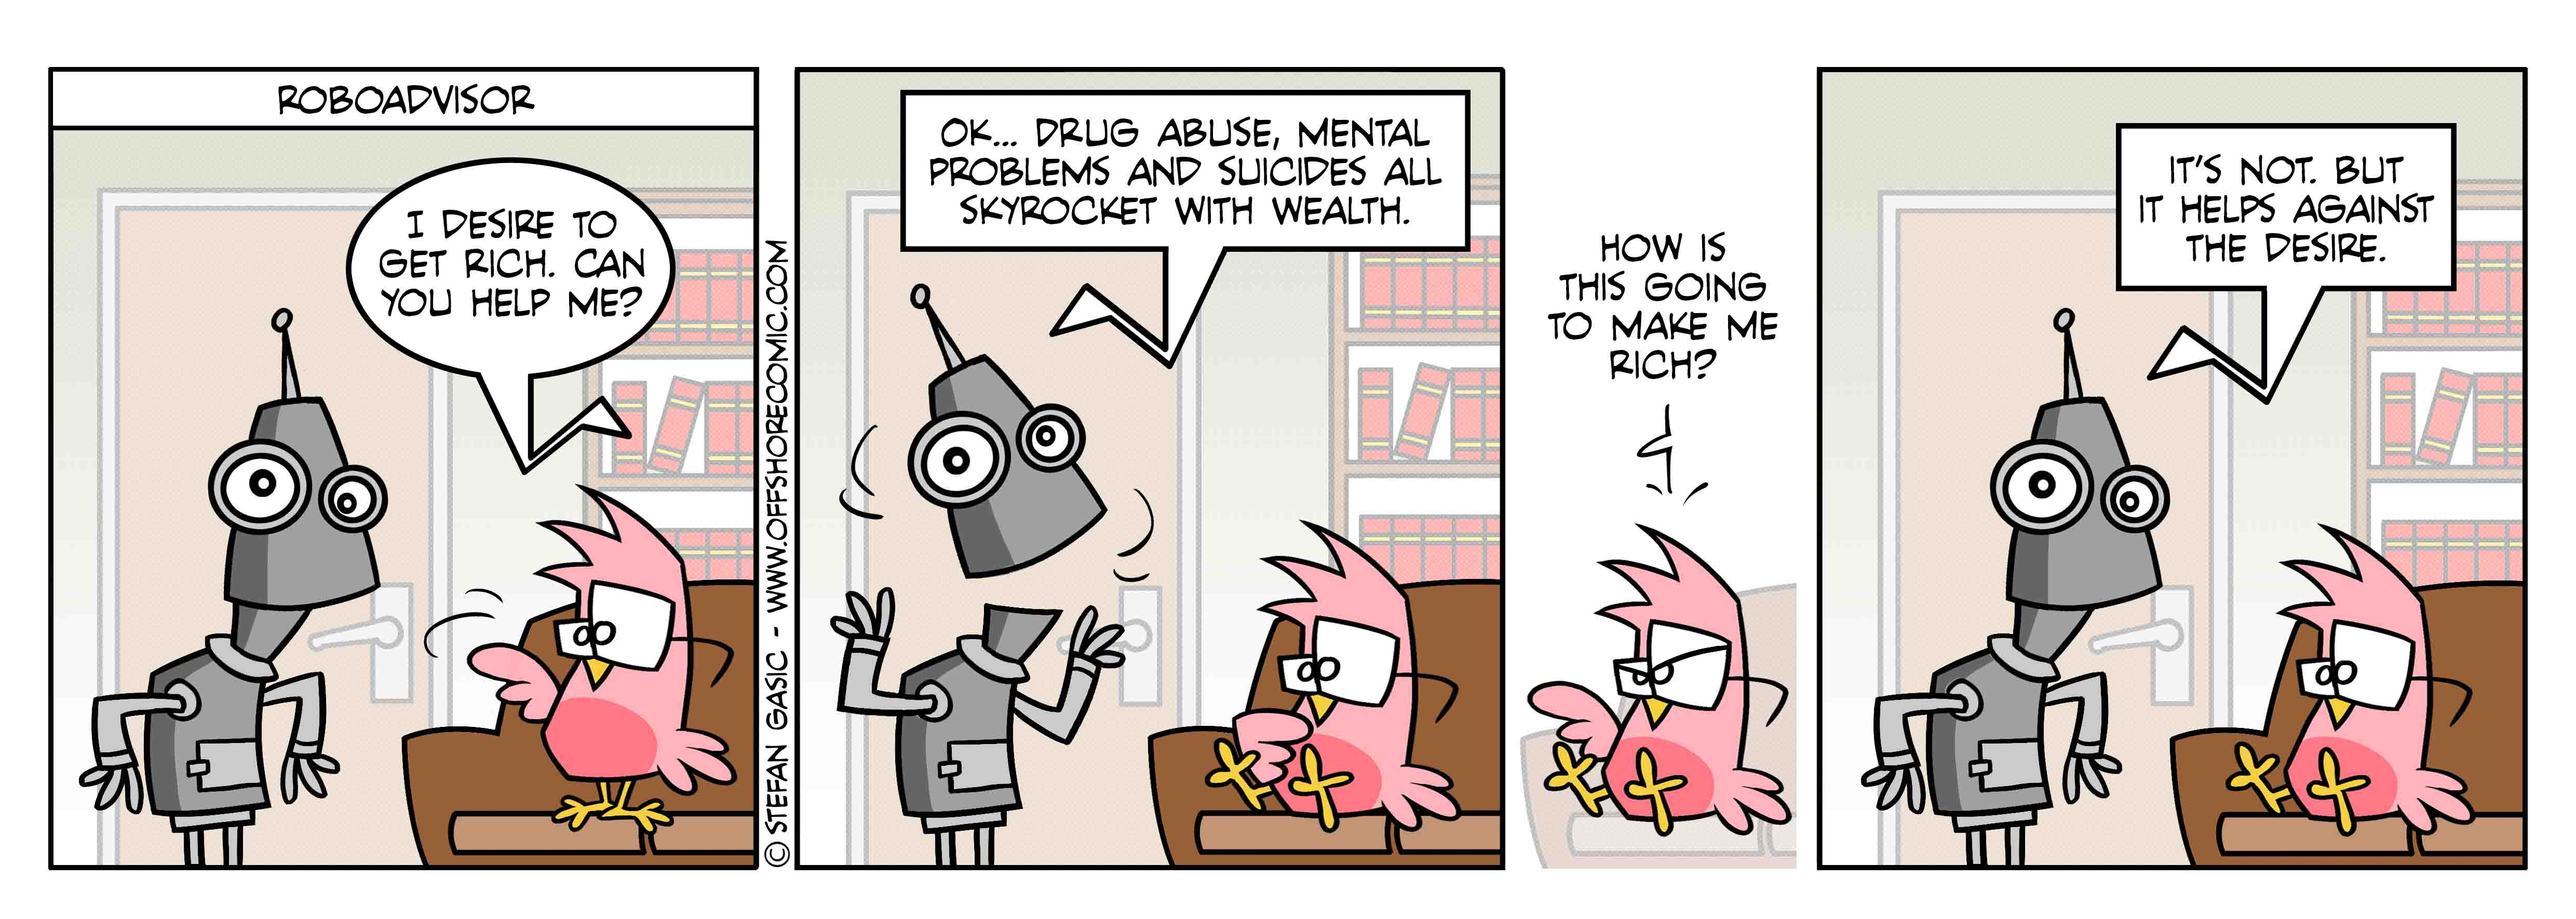
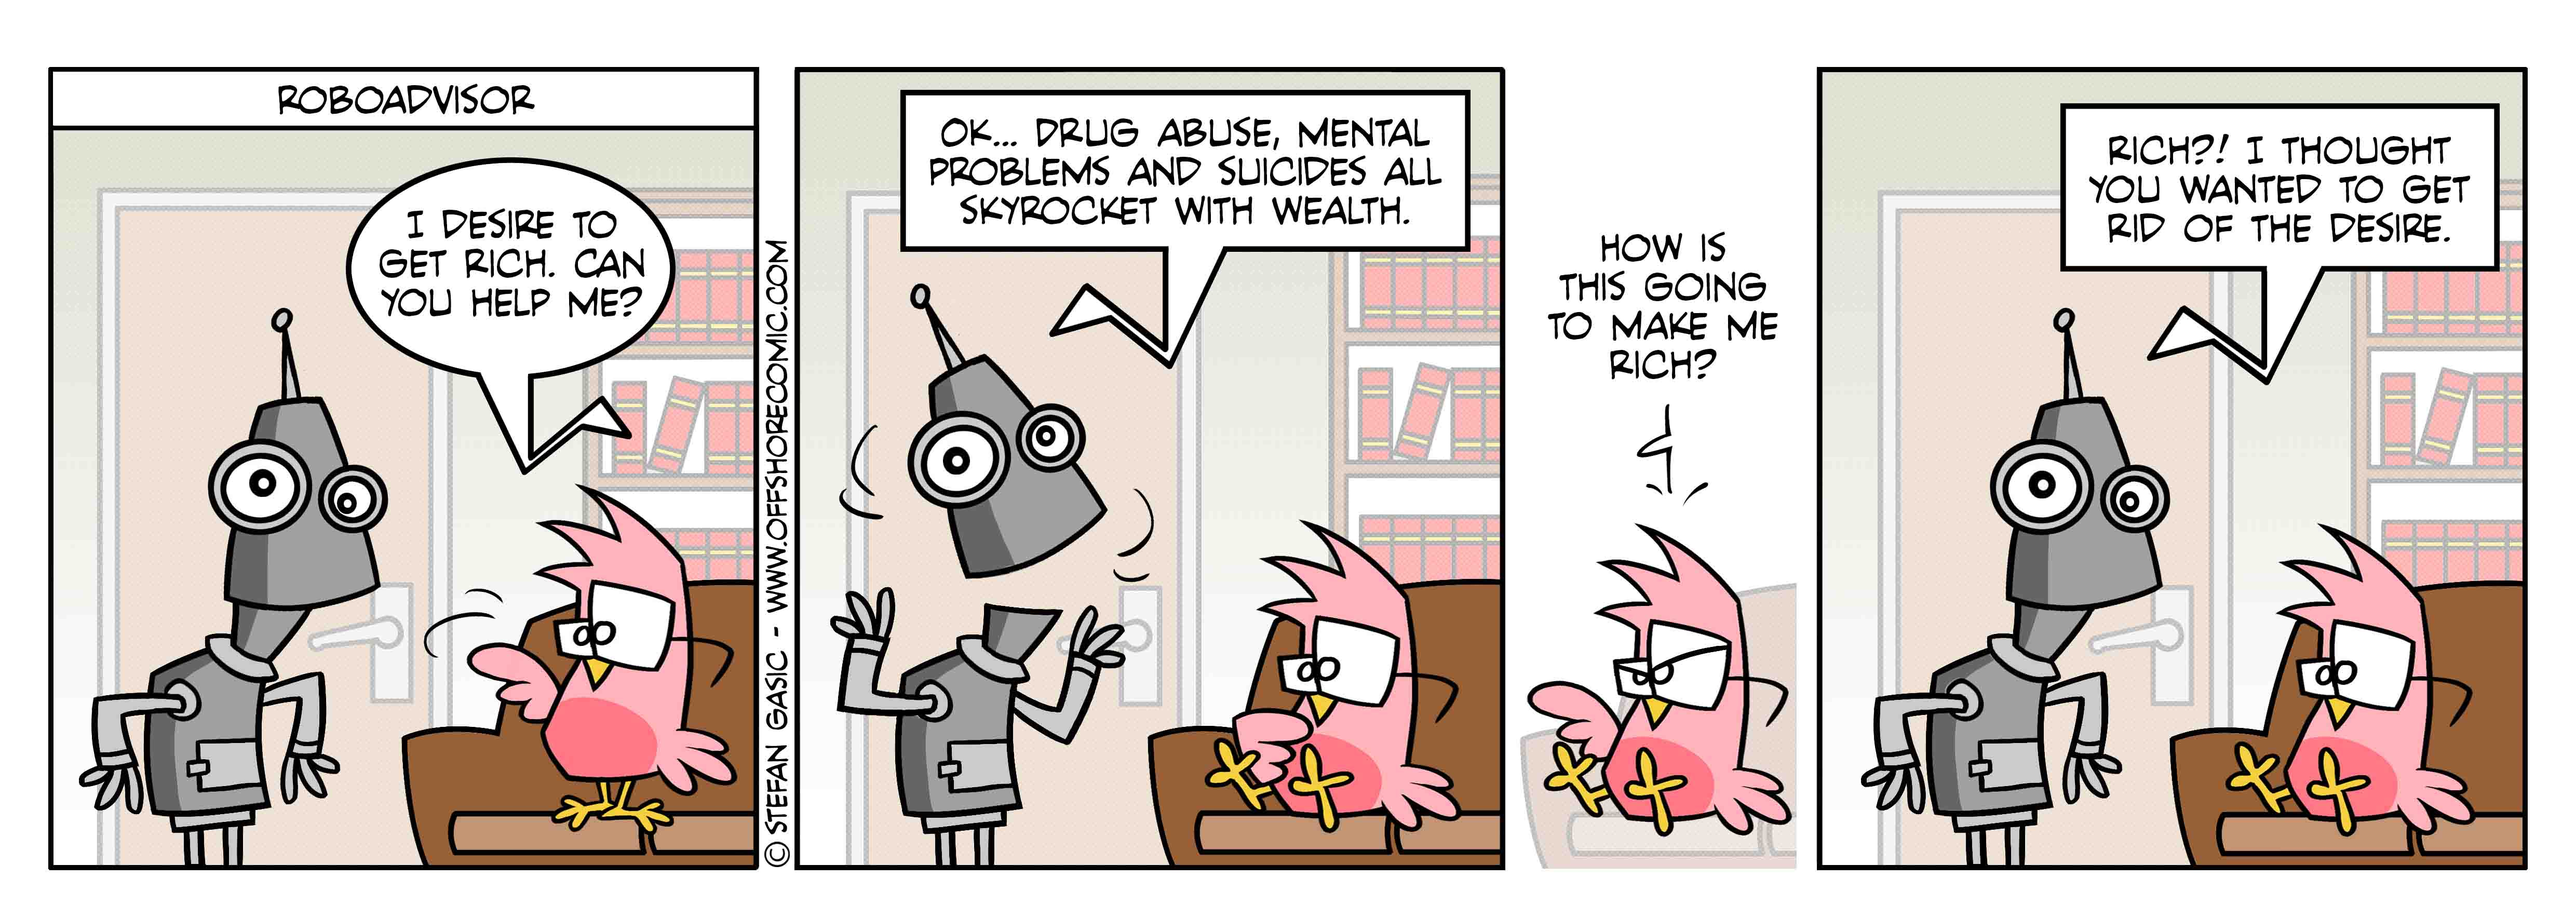
Added a new strip and updated the html and js codes accordingly.

Changed region(s): [[0.7811, 0.0932, 0.9686, 0.435]]

diff --git a/myscripts.js b/myscripts.js
@@ -1,4 +1,4 @@
-var Strips = ["images/S401.jpg","images/S400.jpg","images/S399.jpg","images/S398.jpg","images/S397.jpg","images/S396.jpg","images/S395.jpg","images/S394.jpg","images/S393.jpg","images/S392.jpg","images/S391.jpg","images/S390.jpg","images/S389.jpg","images/S388.jpg","images/S387.jpg","images/S386.jpg","images/S385.jpg","images/S384.jpg","images/S383.jpg","images/S382.jpg","images/S381.jpg","images/S380.jpg","images/S379.jpg","images/S378.jpg","images/S377.jpg","images/S376.jpg","images/S375.jpg","images/S374.jpg","images/S373.jpg","images/S372.jpg","images/S371.jpg","images/S370.jpg","images/S369.jpg","images/S368.jpg","images/S367.jpg","images/S366.jpg","images/S365.jpg","images/S364.jpg","images/S363.jpg","images/S362.jpg","images/S361.jpg","images/S360.jpg","images/S359.jpg","images/S358.jpg","images/S357.jpg","images/S356.jpg","images/S355.jpg","images/S354.jpg","images/S353.jpg","images/S352.jpg","images/S351.jpg","images/S350.jpg","images/S349.jpg","images/S348.jpg","images/S347.jpg","images/S346.jpg","images/S345.jpg","images/S344.jpg","images/S343.jpg","images/S342.jpg","images/S341.jpg","images/S340.jpg","images/S339.jpg","images/S338.jpg","images/S337.jpg","images/S336.jpg","images/S335.jpg","images/S334.jpg","images/S333.jpg","images/S332.jpg","images/S331.jpg","images/S330.jpg","images/S329.jpg","images/S328.jpg","images/S327.jpg","images/S326.jpg","images/S325.jpg","images/S324.jpg","images/S323.jpg","images/S322.jpg","images/S321.jpg","images/S320.jpg","images/S319.jpg","images/S318.jpg","images/S317.jpg","images/S316.jpg","images/S315.jpg","images/S314.jpg","images/S313.jpg","images/S312.jpg","images/S311.jpg","images/S310.jpg","images/S309.jpg","images/S308.jpg","images/S307.jpg","images/S306.jpg","images/S305.jpg","images/S304.jpg","images/S303.jpg","images/S302.jpg","images/S301.jpg","images/S300.jpg","images/S299.jpg","images/S298.jpg","images/S297.jpg","images/S296.jpg","images/S295.jpg","images/S294.jpg","images/S293.jpg","images/S292.jpg","images/S291.jpg","images/S290.jpg","images/S289.jpg","images/S288.jpg","images/S287.jpg","images/S286.jpg","images/S285.jpg","images/S284.jpg","images/S283.jpg","images/S282.jpg","images/S281.jpg","images/S280.jpg","images/S279.jpg","images/S278.jpg","images/S277.jpg","images/S276.jpg","images/S275.jpg","images/S274.jpg","images/S273.jpg","images/S272.jpg","images/S271.jpg","images/S270.jpg","images/S269.jpg","images/S268.jpg","images/S267.jpg","images/S266.jpg","images/S265.jpg","images/S264.jpg","images/S263.jpg","images/S262.jpg","images/S261.jpg","images/S260.jpg","images/S259.jpg","images/S258.jpg","images/S257.jpg","images/S256.jpg","images/S255.jpg","images/S254.jpg","images/S253.jpg","images/S252.jpg","images/S251.jpg","images/S250.jpg","images/S249.jpg","images/S248.jpg","images/S247.jpg","images/S246.jpg","images/S245.jpg","images/S244.jpg","images/S243.jpg","images/S242.jpg","images/S241.jpg","images/S240.jpg","images/S239.jpg","images/S238.jpg","images/S237.jpg","images/S236.jpg","images/S235.jpg","images/S234.jpg","images/S233.jpg","images/S232.jpg","images/S231.jpg","images/S230.jpg","images/S229.jpg","images/S228.jpg","images/S227.jpg","images/S226.jpg","images/S225.jpg","images/S224.jpg","images/S223.jpg","images/S222.jpg","images/S221.jpg","images/S220.jpg","images/S219.jpg","images/S218.jpg","images/S217.jpg","images/S216.jpg","images/S215.jpg","images/S214.jpg","images/S213.jpg","images/S212.jpg","images/S211.jpg","images/S210.jpg","images/S209.jpg","images/S208.jpg","images/S207.jpg","images/S206.jpg","images/S205.jpg","images/S204.jpg","images/S203.jpg","images/S202.jpg","images/S201.jpg","images/S200.jpg","images/S199.jpg","images/S198.jpg","images/S197.jpg","images/S196.jpg","images/S195.jpg","images/S194.jpg","images/S193.jpg","images/S192.jpg","images/S191.jpg","images/S190.jpg","images/S189.jpg","images/S188.jpg","images/S187.jpg","images/S186.jpg","images/S185.jpg","images/S184.jpg","images/S183.jpg","images/S182.jpg","images/S181.jpg","images/S180.jpg","images/S179.jpg","images/S178.jpg","images/S177.jpg","images/S176.jpg","images/S175.jpg","images/S174.jpg","images/S173.jpg","images/S172.jpg","images/S171.jpg","images/S170.jpg","images/S169.jpg","images/S168.jpg","images/S167.jpg","images/S166.jpg","images/S165.jpg","images/S164.jpg","images/S163.jpg","images/S162.jpg","images/S161.jpg","images/S160.jpg","images/S159.jpg","images/S158.jpg","images/S157.jpg","images/S156.jpg","images/S155.jpg","images/S154.jpg","images/S153.jpg","images/S152.jpg","images/S151.jpg","images/S150.jpg","images/S149.jpg","images/S148.jpg","images/S147.jpg","images/S146.jpg","images/S145.jpg","images/S144.jpg","images/S143.jpg","images/S142.jpg","images/S141.jpg","images/S140.jpg","images/S139.jpg","images/S138.jpg","images/S137.jpg","images/S136.jpg","images/S135.jpg","images/S134.jpg","images/S133.jpg","images/S132.jpg","images/S131.jpg","images/S130.jpg","images/S129.jpg","images/S128.jpg","images/S127.jpg","images/S126.jpg","images/S125.jpg","images/S124.jpg","images/S123.jpg","images/S122.jpg","images/S121.jpg","images/S120.jpg","images/S119.jpg","images/S118.jpg","images/S117.jpg","images/S116.jpg","images/S115.jpg","images/S114.jpg","images/S113.jpg","images/S112.jpg","images/S111.jpg","images/S110.jpg","images/S109.jpg","images/S108.jpg","images/S107.jpg","images/S106.jpg","images/S105.jpg","images/S104.jpg","images/S103.jpg","images/S102.jpg","images/S101.jpg","images/S100.jpg","images/S99.jpg","images/S98.jpg","images/S97.jpg","images/S96.jpg","images/S95.jpg","images/S94.jpg","images/S93.jpg","images/S92.jpg","images/S91.jpg","images/S90.jpg","images/S89.jpg","images/S88.jpg","images/S87.jpg","images/S86.jpg","images/S85.jpg","images/S84.jpg","images/S83.jpg","images/S82.jpg","images/S81.jpg","images/S80.jpg","images/S79.jpg","images/S78.jpg","images/S77.jpg","images/S76.jpg","images/S75.jpg","images/S74.jpg","images/S73.jpg","images/S72.jpg","images/S71.jpg","images/S70.jpg","images/S69.jpg","images/S68.jpg","images/S67.jpg","images/S66.jpg","images/S65.jpg","images/S64.jpg","images/S63.jpg","images/S62.jpg","images/S61.jpg","images/S60.jpg","images/S59.jpg","images/S58.jpg","images/S57.jpg","images/S56.jpg","images/S55.jpg","images/S54.jpg","images/S53.jpg","images/S52.jpg","images/S51.jpg","images/S50.jpg","images/S49.jpg","images/S48.jpg","images/S47.jpg","images/S46.jpg","images/S45.jpg","images/S44.jpg","images/S43.jpg","images/S42.jpg","images/S41.jpg","images/S40.jpg","images/S39.jpg","images/S38.jpg","images/S37.jpg","images/S36.jpg","images/S35.jpg","images/S34.jpg","images/S33.jpg","images/S32.jpg","images/S31.jpg","images/S30.jpg","images/S29.jpg","images/S28.jpg","images/S27.jpg","images/S26.jpg","images/S25.jpg","images/S24.jpg","images/S23.jpg","images/S22.jpg","images/S21.jpg","images/S20.jpg","images/S19.jpg","images/S18.jpg","images/S17.jpg","images/S16.jpg","images/S15.jpg","images/S14.jpg","images/S13.jpg","images/S12.jpg","images/S11.jpg","images/S10.jpg","images/S9.jpg","images/S8.jpg","images/S7.jpg","images/S6.jpg","images/S5.jpg","images/S4.jpg","images/S3.jpg","images/S2.jpg","images/S1.jpg"];
+var Strips = ["images/S402.jpg","images/S401.jpg","images/S400.jpg","images/S399.jpg","images/S398.jpg","images/S397.jpg","images/S396.jpg","images/S395.jpg","images/S394.jpg","images/S393.jpg","images/S392.jpg","images/S391.jpg","images/S390.jpg","images/S389.jpg","images/S388.jpg","images/S387.jpg","images/S386.jpg","images/S385.jpg","images/S384.jpg","images/S383.jpg","images/S382.jpg","images/S381.jpg","images/S380.jpg","images/S379.jpg","images/S378.jpg","images/S377.jpg","images/S376.jpg","images/S375.jpg","images/S374.jpg","images/S373.jpg","images/S372.jpg","images/S371.jpg","images/S370.jpg","images/S369.jpg","images/S368.jpg","images/S367.jpg","images/S366.jpg","images/S365.jpg","images/S364.jpg","images/S363.jpg","images/S362.jpg","images/S361.jpg","images/S360.jpg","images/S359.jpg","images/S358.jpg","images/S357.jpg","images/S356.jpg","images/S355.jpg","images/S354.jpg","images/S353.jpg","images/S352.jpg","images/S351.jpg","images/S350.jpg","images/S349.jpg","images/S348.jpg","images/S347.jpg","images/S346.jpg","images/S345.jpg","images/S344.jpg","images/S343.jpg","images/S342.jpg","images/S341.jpg","images/S340.jpg","images/S339.jpg","images/S338.jpg","images/S337.jpg","images/S336.jpg","images/S335.jpg","images/S334.jpg","images/S333.jpg","images/S332.jpg","images/S331.jpg","images/S330.jpg","images/S329.jpg","images/S328.jpg","images/S327.jpg","images/S326.jpg","images/S325.jpg","images/S324.jpg","images/S323.jpg","images/S322.jpg","images/S321.jpg","images/S320.jpg","images/S319.jpg","images/S318.jpg","images/S317.jpg","images/S316.jpg","images/S315.jpg","images/S314.jpg","images/S313.jpg","images/S312.jpg","images/S311.jpg","images/S310.jpg","images/S309.jpg","images/S308.jpg","images/S307.jpg","images/S306.jpg","images/S305.jpg","images/S304.jpg","images/S303.jpg","images/S302.jpg","images/S301.jpg","images/S300.jpg","images/S299.jpg","images/S298.jpg","images/S297.jpg","images/S296.jpg","images/S295.jpg","images/S294.jpg","images/S293.jpg","images/S292.jpg","images/S291.jpg","images/S290.jpg","images/S289.jpg","images/S288.jpg","images/S287.jpg","images/S286.jpg","images/S285.jpg","images/S284.jpg","images/S283.jpg","images/S282.jpg","images/S281.jpg","images/S280.jpg","images/S279.jpg","images/S278.jpg","images/S277.jpg","images/S276.jpg","images/S275.jpg","images/S274.jpg","images/S273.jpg","images/S272.jpg","images/S271.jpg","images/S270.jpg","images/S269.jpg","images/S268.jpg","images/S267.jpg","images/S266.jpg","images/S265.jpg","images/S264.jpg","images/S263.jpg","images/S262.jpg","images/S261.jpg","images/S260.jpg","images/S259.jpg","images/S258.jpg","images/S257.jpg","images/S256.jpg","images/S255.jpg","images/S254.jpg","images/S253.jpg","images/S252.jpg","images/S251.jpg","images/S250.jpg","images/S249.jpg","images/S248.jpg","images/S247.jpg","images/S246.jpg","images/S245.jpg","images/S244.jpg","images/S243.jpg","images/S242.jpg","images/S241.jpg","images/S240.jpg","images/S239.jpg","images/S238.jpg","images/S237.jpg","images/S236.jpg","images/S235.jpg","images/S234.jpg","images/S233.jpg","images/S232.jpg","images/S231.jpg","images/S230.jpg","images/S229.jpg","images/S228.jpg","images/S227.jpg","images/S226.jpg","images/S225.jpg","images/S224.jpg","images/S223.jpg","images/S222.jpg","images/S221.jpg","images/S220.jpg","images/S219.jpg","images/S218.jpg","images/S217.jpg","images/S216.jpg","images/S215.jpg","images/S214.jpg","images/S213.jpg","images/S212.jpg","images/S211.jpg","images/S210.jpg","images/S209.jpg","images/S208.jpg","images/S207.jpg","images/S206.jpg","images/S205.jpg","images/S204.jpg","images/S203.jpg","images/S202.jpg","images/S201.jpg","images/S200.jpg","images/S199.jpg","images/S198.jpg","images/S197.jpg","images/S196.jpg","images/S195.jpg","images/S194.jpg","images/S193.jpg","images/S192.jpg","images/S191.jpg","images/S190.jpg","images/S189.jpg","images/S188.jpg","images/S187.jpg","images/S186.jpg","images/S185.jpg","images/S184.jpg","images/S183.jpg","images/S182.jpg","images/S181.jpg","images/S180.jpg","images/S179.jpg","images/S178.jpg","images/S177.jpg","images/S176.jpg","images/S175.jpg","images/S174.jpg","images/S173.jpg","images/S172.jpg","images/S171.jpg","images/S170.jpg","images/S169.jpg","images/S168.jpg","images/S167.jpg","images/S166.jpg","images/S165.jpg","images/S164.jpg","images/S163.jpg","images/S162.jpg","images/S161.jpg","images/S160.jpg","images/S159.jpg","images/S158.jpg","images/S157.jpg","images/S156.jpg","images/S155.jpg","images/S154.jpg","images/S153.jpg","images/S152.jpg","images/S151.jpg","images/S150.jpg","images/S149.jpg","images/S148.jpg","images/S147.jpg","images/S146.jpg","images/S145.jpg","images/S144.jpg","images/S143.jpg","images/S142.jpg","images/S141.jpg","images/S140.jpg","images/S139.jpg","images/S138.jpg","images/S137.jpg","images/S136.jpg","images/S135.jpg","images/S134.jpg","images/S133.jpg","images/S132.jpg","images/S131.jpg","images/S130.jpg","images/S129.jpg","images/S128.jpg","images/S127.jpg","images/S126.jpg","images/S125.jpg","images/S124.jpg","images/S123.jpg","images/S122.jpg","images/S121.jpg","images/S120.jpg","images/S119.jpg","images/S118.jpg","images/S117.jpg","images/S116.jpg","images/S115.jpg","images/S114.jpg","images/S113.jpg","images/S112.jpg","images/S111.jpg","images/S110.jpg","images/S109.jpg","images/S108.jpg","images/S107.jpg","images/S106.jpg","images/S105.jpg","images/S104.jpg","images/S103.jpg","images/S102.jpg","images/S101.jpg","images/S100.jpg","images/S99.jpg","images/S98.jpg","images/S97.jpg","images/S96.jpg","images/S95.jpg","images/S94.jpg","images/S93.jpg","images/S92.jpg","images/S91.jpg","images/S90.jpg","images/S89.jpg","images/S88.jpg","images/S87.jpg","images/S86.jpg","images/S85.jpg","images/S84.jpg","images/S83.jpg","images/S82.jpg","images/S81.jpg","images/S80.jpg","images/S79.jpg","images/S78.jpg","images/S77.jpg","images/S76.jpg","images/S75.jpg","images/S74.jpg","images/S73.jpg","images/S72.jpg","images/S71.jpg","images/S70.jpg","images/S69.jpg","images/S68.jpg","images/S67.jpg","images/S66.jpg","images/S65.jpg","images/S64.jpg","images/S63.jpg","images/S62.jpg","images/S61.jpg","images/S60.jpg","images/S59.jpg","images/S58.jpg","images/S57.jpg","images/S56.jpg","images/S55.jpg","images/S54.jpg","images/S53.jpg","images/S52.jpg","images/S51.jpg","images/S50.jpg","images/S49.jpg","images/S48.jpg","images/S47.jpg","images/S46.jpg","images/S45.jpg","images/S44.jpg","images/S43.jpg","images/S42.jpg","images/S41.jpg","images/S40.jpg","images/S39.jpg","images/S38.jpg","images/S37.jpg","images/S36.jpg","images/S35.jpg","images/S34.jpg","images/S33.jpg","images/S32.jpg","images/S31.jpg","images/S30.jpg","images/S29.jpg","images/S28.jpg","images/S27.jpg","images/S26.jpg","images/S25.jpg","images/S24.jpg","images/S23.jpg","images/S22.jpg","images/S21.jpg","images/S20.jpg","images/S19.jpg","images/S18.jpg","images/S17.jpg","images/S16.jpg","images/S15.jpg","images/S14.jpg","images/S13.jpg","images/S12.jpg","images/S11.jpg","images/S10.jpg","images/S9.jpg","images/S8.jpg","images/S7.jpg","images/S6.jpg","images/S5.jpg","images/S4.jpg","images/S3.jpg","images/S2.jpg","images/S1.jpg"];
 
 var Current = 0;
 var myStrip = null;

diff --git a/index.html b/index.html
@@ -42,7 +42,7 @@
         <div class="count">
           <strong><span id="currentCount"></span></strong> out of <strong><span id="totalCount"></span></strong>
         </div>
-		<div class="wrap-item1"><img src="images/S401.jpg" id="Strip"/></div>
+		<div class="wrap-item1"><img src="images/S402.jpg" id="Strip"/></div>
 		<div class="wrapper3">
 			<div class="wrap-item3">
 			<button class="button" onClick="Last();">&lsaquo;&lsaquo;</button>
